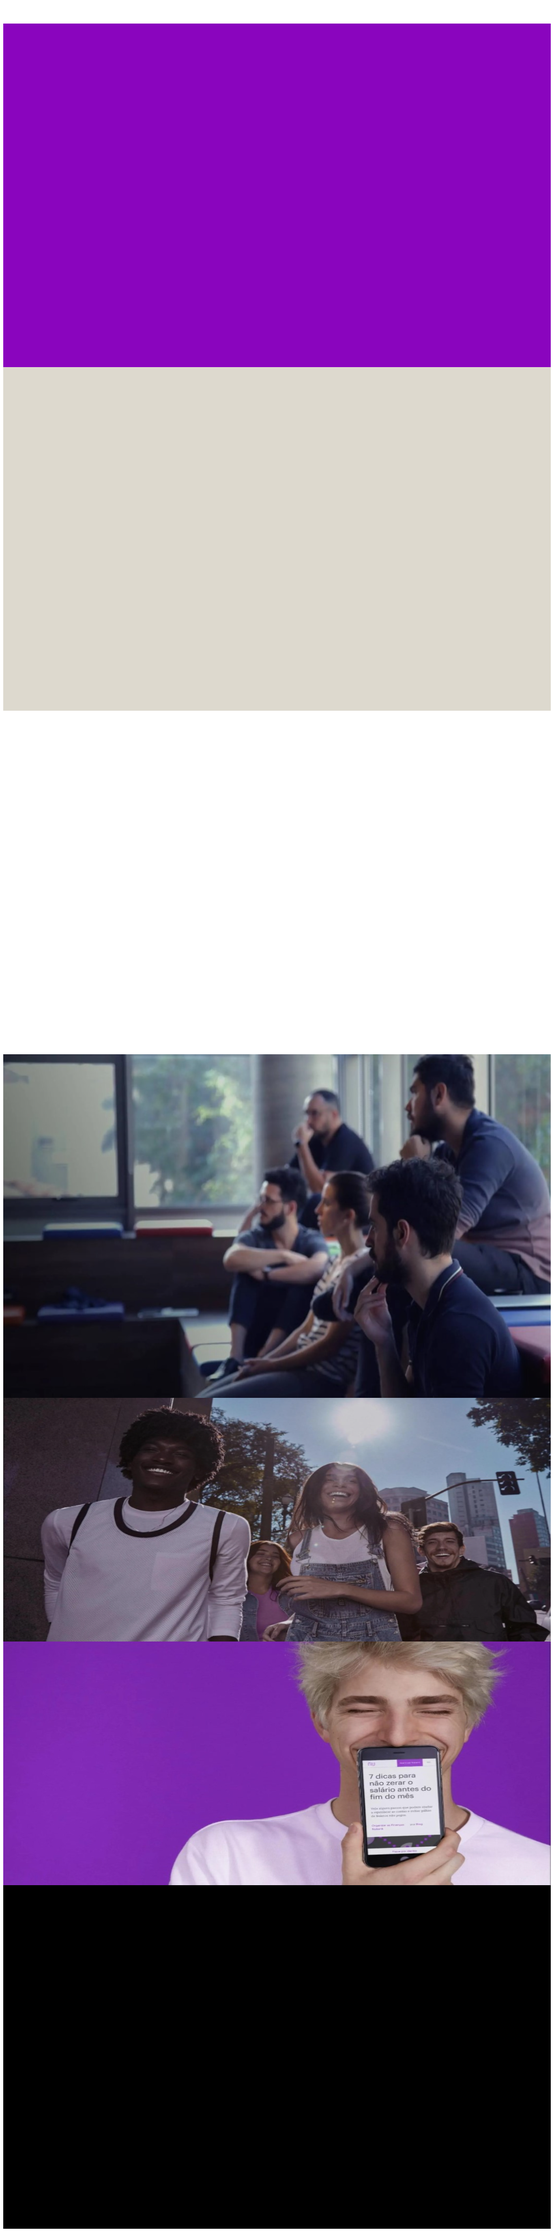
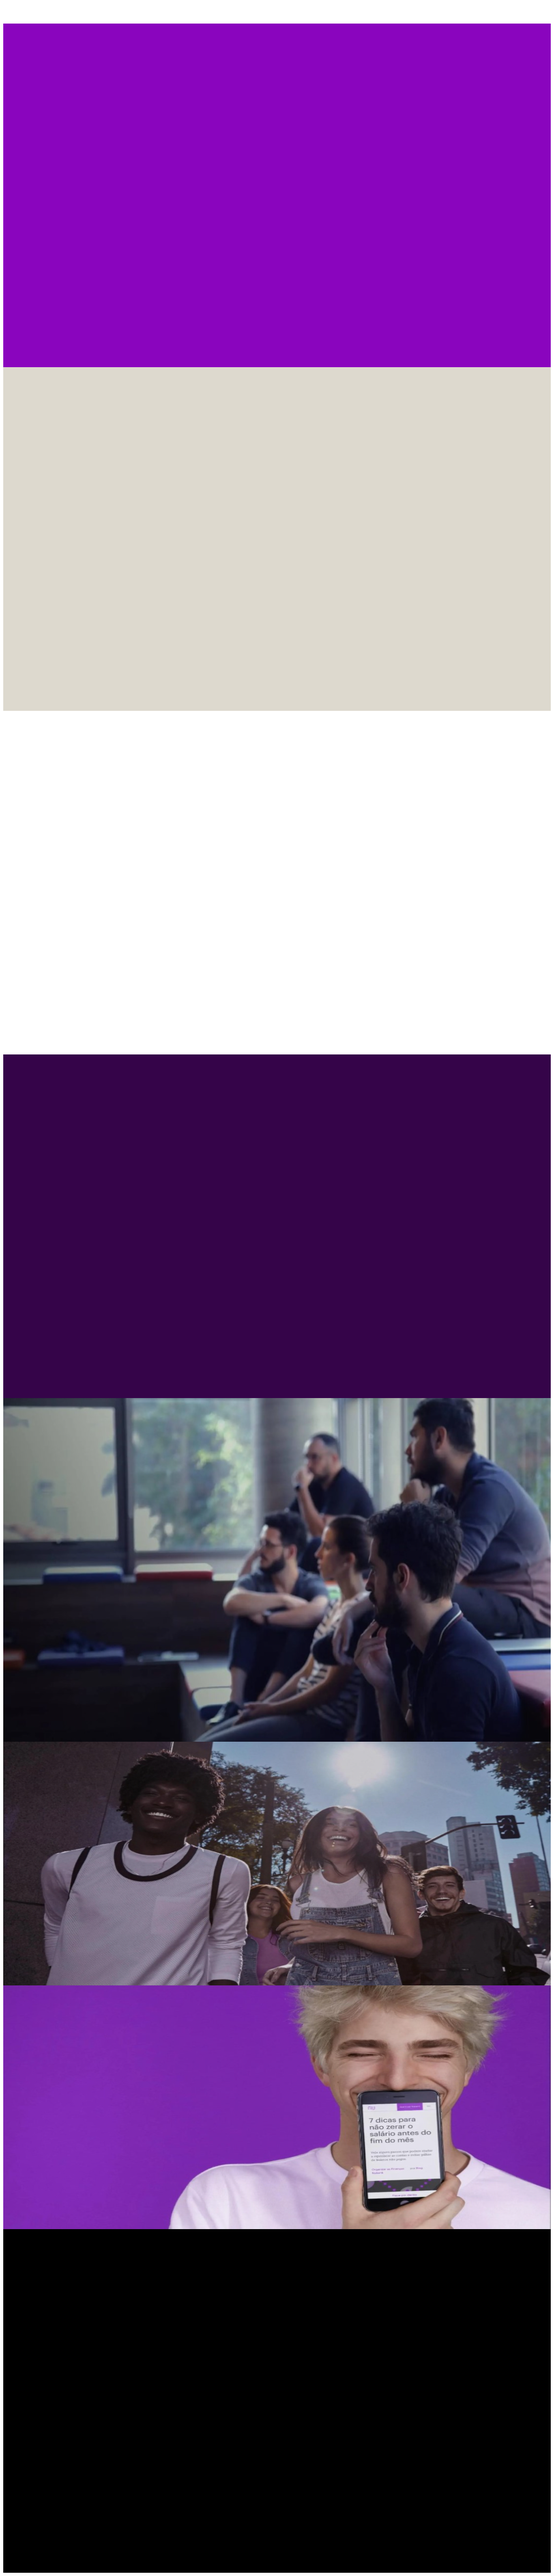
esqueleto v02
esqueci uma section e estou subindo de novo.
ps: o id da section que estou subindo agora esta fora do padrão, estão chamando de "container-rewards", mas posteriormente estarei modificando para voltar ao padrão dos utros ids

diff --git a/index.html b/index.html
@@ -21,6 +21,9 @@
         <section id="container3">
           
         </section>
+        <section id="container-rewards">
+          
+         </section>
         <section id="container4">
            <img id="imgContainer4" src="imgs/container4.jpg" alt="Italian Trulli">
         </section>

diff --git a/style/css.css b/style/css.css
@@ -29,6 +29,11 @@ section#container3{
     background-size: 80%;
     min-height: 846px;
 }
+section#container-rewards{
+    background-color: rgb(53, 4, 73);
+    background-size: 80%;
+    min-height: 846px;
+}
 section#container4{
     background-color:blue;  
     height: 846px;
